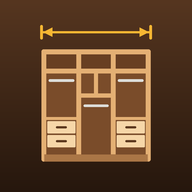
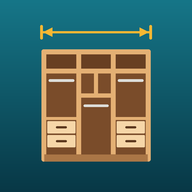
Paleta más viva: azul petróleo + ámbar y un color por trabajo

diff --git a/styles.css b/styles.css
@@ -1,22 +1,24 @@
 :root {
-  --fondo: #f6efe6;
+  --fondo: #f2f5f7;
   --tarjeta: #ffffff;
-  --texto: #2b1b10;
-  --suave: #7a6453;
-  --madera: #c98a4b;
-  --nogal: #3a2415;
-  --ambar: #f2a922;
-  --borde: #e6d8c7;
-  --sombra: 0 1px 2px rgba(58, 36, 21, .08), 0 4px 14px rgba(58, 36, 21, .06);
+  --texto: #17262c;
+  --suave: #5a6b73;
+  --petroleo: #0e6474;
+  --petroleo-osc: #093e4a;
+  --ambar: #f5a623;
+  --borde: #e0e7ea;
+  --sombra: 0 1px 2px rgba(9, 62, 74, .08), 0 6px 18px rgba(9, 62, 74, .07);
+  --mezcla: #ffffff; /* base con la que se aclara el color de cada trabajo */
 }
 @media (prefers-color-scheme: dark) {
   :root {
-    --fondo: #1b120b;
-    --tarjeta: #2a1c12;
-    --texto: #f3e7d9;
-    --suave: #bca48d;
-    --borde: #3d2a1c;
-    --sombra: 0 1px 2px rgba(0, 0, 0, .4);
+    --fondo: #0f171b;
+    --tarjeta: #18242a;
+    --texto: #eef4f6;
+    --suave: #9fb2ba;
+    --borde: #26363d;
+    --sombra: 0 1px 2px rgba(0, 0, 0, .45);
+    --mezcla: #18242a;
   }
 }
 
@@ -34,13 +36,14 @@ body {
 .barra {
   display: flex; align-items: center; gap: 12px;
   padding: calc(14px + env(safe-area-inset-top)) 16px 14px;
-  background: linear-gradient(180deg, #56361f, var(--nogal));
-  color: #fbeedd;
+  background: linear-gradient(135deg, #13798b, var(--petroleo-osc));
+  color: #fff;
   position: sticky; top: 0; z-index: 5;
+  box-shadow: 0 2px 10px rgba(9, 62, 74, .25);
 }
-.logo { border-radius: 10px; display: block; }
+.logo { border-radius: 10px; display: block; box-shadow: 0 0 0 2px rgba(255, 255, 255, .25); }
 .barra h1 { margin: 0; font-size: 1.15rem; font-weight: 700; letter-spacing: .2px; }
-.barra .sub { margin: 2px 0 0; font-size: .82rem; color: #e2c7a6; }
+.barra .sub { margin: 2px 0 0; font-size: .82rem; color: #ffd27a; }
 
 main { max-width: 720px; margin: 0 auto; padding: 16px 16px calc(28px + env(safe-area-inset-bottom)); }
 
@@ -55,17 +58,25 @@ main { max-width: 720px; margin: 0 auto; padding: 16px 16px calc(28px + env(safe
 }
 @media (min-width: 560px) { .mosaico { grid-template-columns: repeat(3, minmax(0, 1fr)); } }
 
+/* Cada trabajo trae su color en --c */
 .opcion {
   display: flex; flex-direction: column; align-items: flex-start; justify-content: space-between;
-  min-height: 132px; padding: 14px;
+  min-height: 138px; padding: 14px;
   background: var(--tarjeta); color: var(--texto);
-  border: 1px solid var(--borde); border-radius: 16px; box-shadow: var(--sombra);
+  border: 1px solid var(--borde); border-bottom: 4px solid var(--c); border-radius: 16px;
+  box-shadow: var(--sombra);
   font: inherit; text-align: left; cursor: pointer;
-  transition: transform .12s ease, border-color .12s ease;
+  transition: transform .12s ease, box-shadow .12s ease;
 }
 .opcion:active { transform: scale(.97); }
-.opcion:hover, .opcion:focus-visible { border-color: var(--madera); outline: none; }
-.opcion svg { width: 46px; height: 46px; color: var(--madera); }
+.opcion:focus-visible { outline: 3px solid var(--c); outline-offset: 2px; }
+.chip {
+  display: grid; place-items: center;
+  width: 56px; height: 56px; border-radius: 14px;
+  background: color-mix(in srgb, var(--c) 16%, var(--mezcla));
+  color: var(--c);
+}
+.chip svg { width: 38px; height: 38px; }
 .opcion strong { font-size: 1.02rem; line-height: 1.2; margin-top: 10px; }
 .opcion small { color: var(--suave); font-size: .78rem; margin-top: 2px; }
 
@@ -74,20 +85,29 @@ main { max-width: 720px; margin: 0 auto; padding: 16px 16px calc(28px + env(safe
   grid-column: 1 / -1;
   flex-direction: row; align-items: center; gap: 14px;
   min-height: 0; padding: 10px;
+  background: linear-gradient(135deg, #13798b, var(--petroleo-osc));
+  border: 0; color: #fff;
 }
 .opcion.destacada img {
   width: 104px; height: 104px; object-fit: cover; border-radius: 12px; flex: none;
   background: #fff;
 }
-.opcion.destacada strong { margin-top: 0; font-size: 1.15rem; }
+.opcion.destacada strong { margin-top: 0; font-size: 1.2rem; }
+.opcion.destacada small { color: #cfe7ec; }
+.etiqueta {
+  display: inline-block; margin-top: 8px; padding: 3px 10px; border-radius: 999px;
+  background: var(--ambar); color: #3a2400; font-size: .75rem; font-weight: 700;
+}
 
 /* Pantalla de un tipo de trabajo */
 .volver {
-  background: none; border: 0; color: var(--madera); font: inherit; font-weight: 600;
+  background: none; border: 0; color: var(--petroleo); font: inherit; font-weight: 600;
   padding: 6px 0; margin-bottom: 8px; cursor: pointer;
 }
+@media (prefers-color-scheme: dark) { .volver { color: #5fc3d4; } }
 .cabeza { display: flex; align-items: center; gap: 12px; margin-bottom: 16px; }
-.cabeza svg { width: 52px; height: 52px; color: var(--madera); flex: none; }
+.cabeza .chip { width: 64px; height: 64px; flex: none; }
+.cabeza .chip svg { width: 44px; height: 44px; }
 .cabeza h2 { margin: 0; font-size: 1.4rem; }
 .cabeza p { margin: 2px 0 0; color: var(--suave); }
 
@@ -99,11 +119,11 @@ main { max-width: 720px; margin: 0 auto; padding: 16px 16px calc(28px + env(safe
 .pasos .n {
   flex: none; width: 30px; height: 30px; border-radius: 50%;
   display: grid; place-items: center; font-weight: 700;
-  background: var(--ambar); color: #3a2415;
+  background: var(--c); color: #fff;
 }
 .pasos b { display: block; }
 .pasos span { color: var(--suave); font-size: .9rem; }
 .pronto {
   margin-top: 16px; padding: 12px 14px; border-radius: 12px;
-  background: rgba(242, 169, 34, .14); color: var(--texto); font-size: .9rem;
+  background: rgba(245, 166, 35, .16); color: var(--texto); font-size: .9rem;
 }

diff --git a/app.js b/app.js
@@ -7,31 +7,31 @@ const s = (paths) =>
 
 const TRABAJOS = [
   {
-    id: 'closet', nombre: 'Closet', detalle: 'Cuerpos, entrepaños, tubos y cajones', foto: 'img/closet.jpg',
+    id: 'closet', color: '#0e6474', nombre: 'Closet', detalle: 'Cuerpos, entrepaños, tubos y cajones', foto: 'img/closet.jpg',
     icono: s('<rect x="7" y="5" width="34" height="37" rx="1.5"/><path d="M18.3 5v37M29.7 5v37M7 12h34M9 17h7.5M31.5 17h7.5M20 26h7.5M7 30h11.3M29.7 30H41M7 36h11.3M29.7 36H41M5 42h38"/>'),
   },
   {
-    id: 'cocina', nombre: 'Cocina integral', detalle: 'Módulos altos, bajos y mesón',
+    id: 'cocina', color: '#e8742a', nombre: 'Cocina integral', detalle: 'Módulos altos, bajos y mesón',
     icono: s('<rect x="5" y="6" width="38" height="11" rx="1.5"/><path d="M17.7 6v11M30.3 6v11"/><path d="M3 25h42"/><rect x="5" y="25" width="38" height="17" rx="1.5"/><path d="M18 25v17M31 25v17M14 30v3M22 30v3M34 30v3"/>'),
   },
   {
-    id: 'bano', nombre: 'Mueble de baño', detalle: 'Mueble de lavamanos y espejo',
+    id: 'bano', color: '#1e88e5', nombre: 'Mueble de baño', detalle: 'Mueble de lavamanos y espejo',
     icono: s('<path d="M24 6v5M20 8h8"/><path d="M8 18h32"/><path d="M13 18c0 5 5 7 11 7s11-2 11-7"/><rect x="9" y="25" width="30" height="17" rx="1.5"/><path d="M24 25v17M20 32v3M28 32v3"/>'),
   },
   {
-    id: 'puerta', nombre: 'Puerta', detalle: 'Hoja, marco y herrajes',
+    id: 'puerta', color: '#2e9e5b', nombre: 'Puerta', detalle: 'Hoja, marco y herrajes',
     icono: s('<path d="M10 43V5h28v38"/><rect x="15" y="9" width="18" height="30" rx="1"/><circle cx="29" cy="25" r="1.6" fill="currentColor"/><path d="M6 43h36"/>'),
   },
   {
-    id: 'sala', nombre: 'Sala de entretenimiento', detalle: 'Centro de TV y repisas',
+    id: 'sala', color: '#7e57c2', nombre: 'Sala de entretenimiento', detalle: 'Centro de TV y repisas',
     icono: s('<rect x="12" y="5" width="24" height="15" rx="1.5"/><path d="M24 20v5"/><rect x="4" y="25" width="40" height="13" rx="1.5"/><path d="M17.3 25v13M30.7 25v13M8 38v4M40 38v4"/>'),
   },
   {
-    id: 'comedor', nombre: 'Comedor', detalle: 'Mesa y sillas',
+    id: 'comedor', color: '#e0474c', nombre: 'Comedor', detalle: 'Mesa y sillas',
     icono: s('<path d="M13 22h22M16 22v18M32 22v18"/><path d="M5 12v28M5 28h7v12"/><path d="M43 12v28M43 28h-7v12"/>'),
   },
   {
-    id: 'cama', nombre: 'Cama', detalle: 'Cabecero, base y tendido',
+    id: 'cama', color: '#d6408e', nombre: 'Cama', detalle: 'Cabecero, base y tendido',
     icono: s('<path d="M6 12v28M42 26v14"/><path d="M6 26h36"/><path d="M6 34h36"/><rect x="10" y="19" width="10" height="7" rx="2"/><path d="M22 26v-5a2 2 0 0 1 2-2h14a4 4 0 0 1 4 4v3"/>'),
   },
 ];
@@ -46,13 +46,13 @@ function inicio() {
       <p>Escoge el trabajo y armamos el despiece conversando.</p>
     </section>
     <div class="mosaico">
-      <button class="opcion destacada" data-id="${closet.id}">
+      <button class="opcion destacada" data-id="${closet.id}" style="--c:${closet.color}">
         <img src="${closet.foto}" alt="Closet de tres cuerpos" width="104" height="104">
-        <span><strong>${closet.nombre}</strong><br><small>${closet.detalle}</small></span>
+        <span><strong>${closet.nombre}</strong><br><small>${closet.detalle}</small><br><span class="etiqueta">El más pedido</span></span>
       </button>
       ${resto.map(t => `
-        <button class="opcion" data-id="${t.id}">
-          ${t.icono}
+        <button class="opcion" data-id="${t.id}" style="--c:${t.color}">
+          <span class="chip">${t.icono}</span>
           <span><strong>${t.nombre}</strong><br><small>${t.detalle}</small></span>
         </button>`).join('')}
     </div>`;
@@ -60,9 +60,10 @@ function inicio() {
 
 function trabajo(t) {
   app.innerHTML = `
+    <div style="--c:${t.color}">
     <button class="volver" data-volver>‹ Volver</button>
     <div class="cabeza">
-      ${t.icono}
+      <span class="chip">${t.icono}</span>
       <div><h2>${t.nombre}</h2><p>${t.detalle}</p></div>
     </div>
     <ol class="pasos">
@@ -71,7 +72,8 @@ function trabajo(t) {
       <li><span class="n">3</span><div><b>Conversa con el asistente</b><span>Te pregunta medidas y detalles por voz. Puedes mandarle fotos.</span></div></li>
       <li><span class="n">4</span><div><b>Recibe el despiece</b><span>Piezas, cantos, tableros, herrajes y consumibles, listo para el depósito.</span></div></li>
     </ol>
-    <p class="pronto">🛠 Esta parte está en construcción. Pronto podrás hablar con el asistente desde aquí.</p>`;
+    <p class="pronto">🛠 Esta parte está en construcción. Pronto podrás hablar con el asistente desde aquí.</p>
+    </div>`;
 }
 
 function mostrar() {

diff --git a/index.html b/index.html
@@ -5,7 +5,7 @@
   <meta name="viewport" content="width=device-width, initial-scale=1, viewport-fit=cover">
   <title>Despiece Carpintería</title>
   <meta name="description" content="Asistente por voz que arma el despiece de tu trabajo en madera.">
-  <meta name="theme-color" content="#3a2415">
+  <meta name="theme-color" content="#0e6474">
   <link rel="manifest" href="manifest.webmanifest">
   <link rel="icon" type="image/png" sizes="32x32" href="icons/favicon-32.png">
   <!-- iPhone -->

diff --git a/sw.js b/sw.js
@@ -1,5 +1,5 @@
 // Service worker: deja la app abriendo aunque no haya señal (el taller o la obra).
-const CACHE = 'despiece-v1';
+const CACHE = 'despiece-v2';
 const ARCHIVOS = [
   './', 'index.html', 'app.js', 'styles.css', 'manifest.webmanifest',
   'img/closet.jpg',

diff --git a/tools/generar_iconos.py b/tools/generar_iconos.py
@@ -6,8 +6,8 @@ S = 1024
 def draw(scale_content=1.0):
     im = Image.new("RGB", (S, S))
     d = ImageDraw.Draw(im)
-    # vertical gradient background (walnut)
-    top, bot = (86, 54, 32), (38, 23, 13)
+    # vertical gradient background (azul petróleo)
+    top, bot = (22, 118, 136), (8, 56, 70)
     for y in range(S):
         t = y / (S - 1)
         d.line([(0, y), (S, y)], fill=tuple(int(top[i] + (bot[i] - top[i]) * t) for i in range(3)))

diff --git a/ROADMAP.md b/ROADMAP.md
@@ -14,7 +14,10 @@ en un formato que el depósito acepte para despachar.
   ImporMaderas usa **CutList** → la meta es exportar en un formato que CutList importe.
 - **Beta con 2 carpinteros reales** en campo; se ajusta con su uso.
 - Producto pensado para **comercializar**.
-- Ícono: dibujo plano derivado del closet de 3 cuerpos + línea de medida (ámbar).
+- Ícono: dibujo plano derivado del closet de 3 cuerpos + línea de medida (ámbar), sobre azul petróleo.
+- Paleta (2026-09-26, el usuario pidió "más viva, menos café"): azul petróleo `#0e6474` + ámbar `#f5a623`,
+  fondo gris claro, y un color por trabajo (cocina naranja, baño azul, puerta verde, sala violeta,
+  comedor rojo, cama rosa). La madera queda solo en el closet del ícono y la foto.
   La foto original va en la tarjeta del Closet.
 
 ## Etapas
